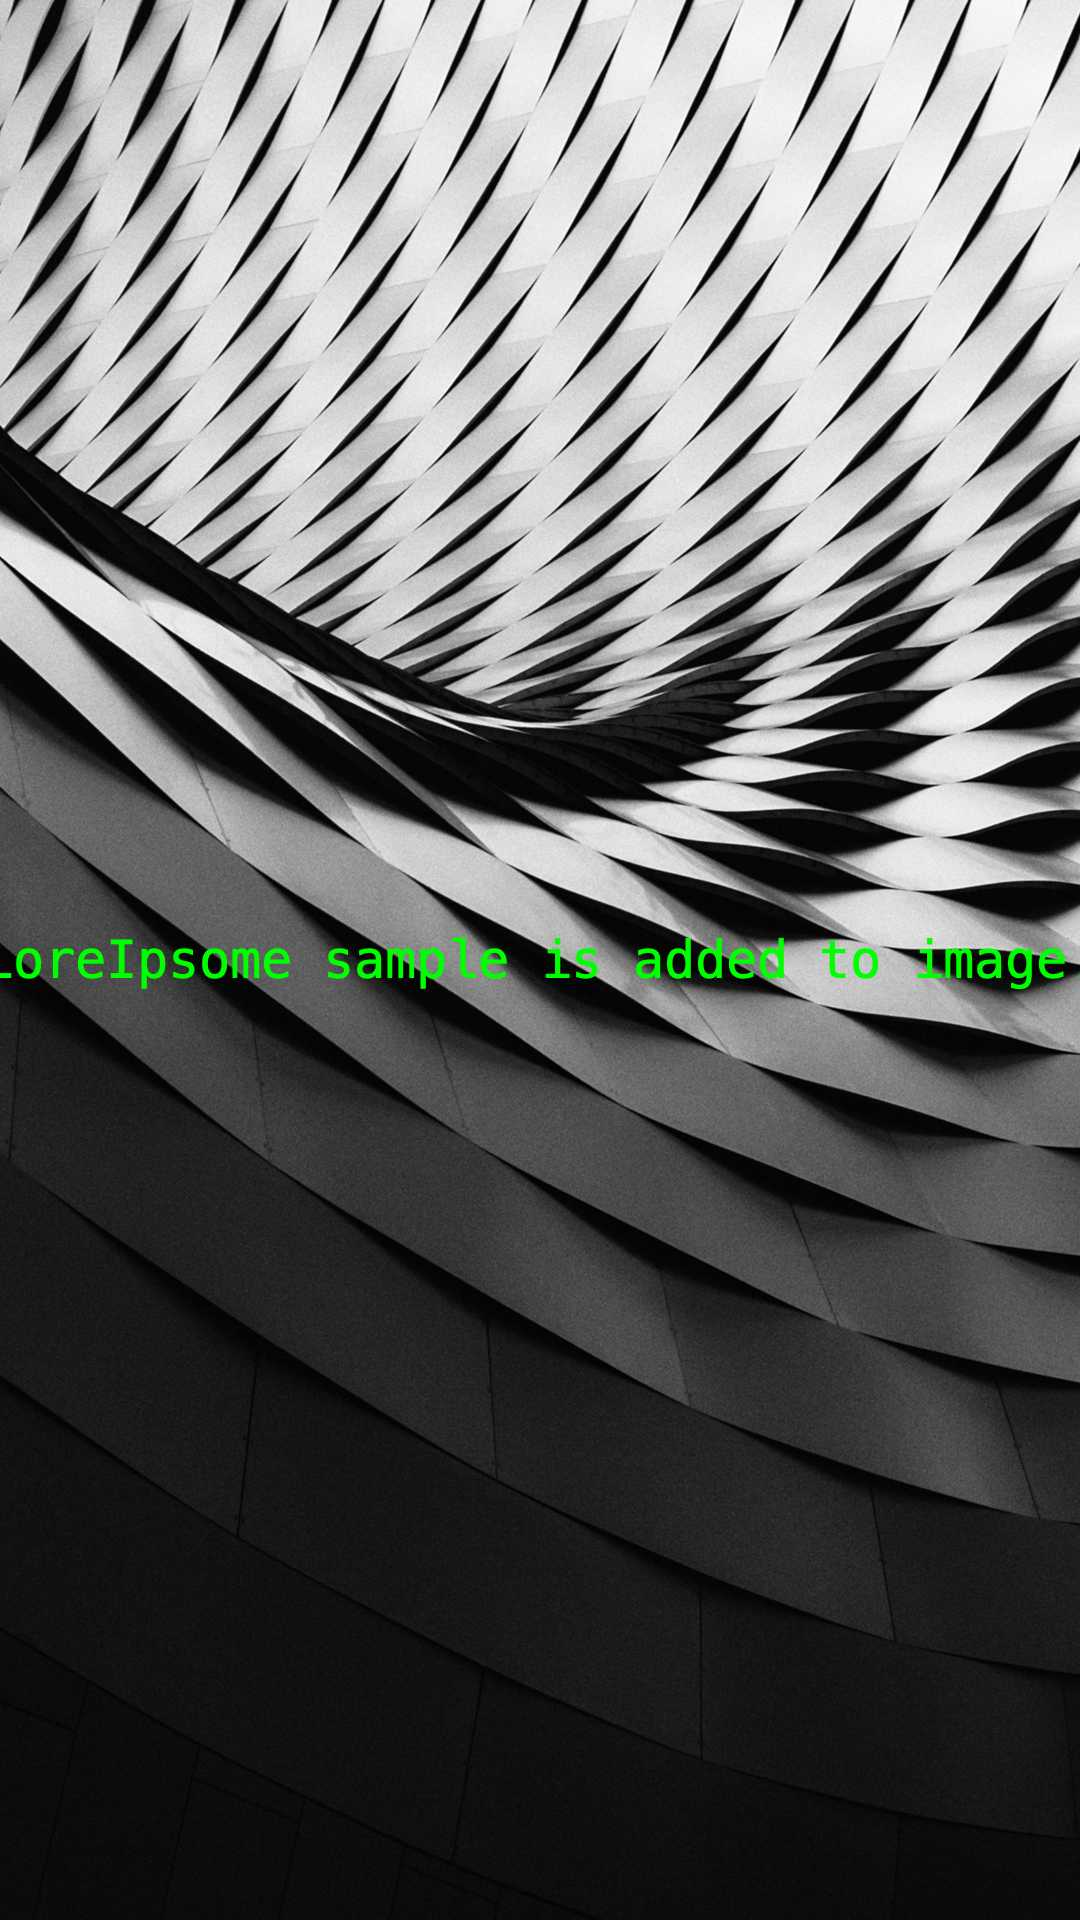
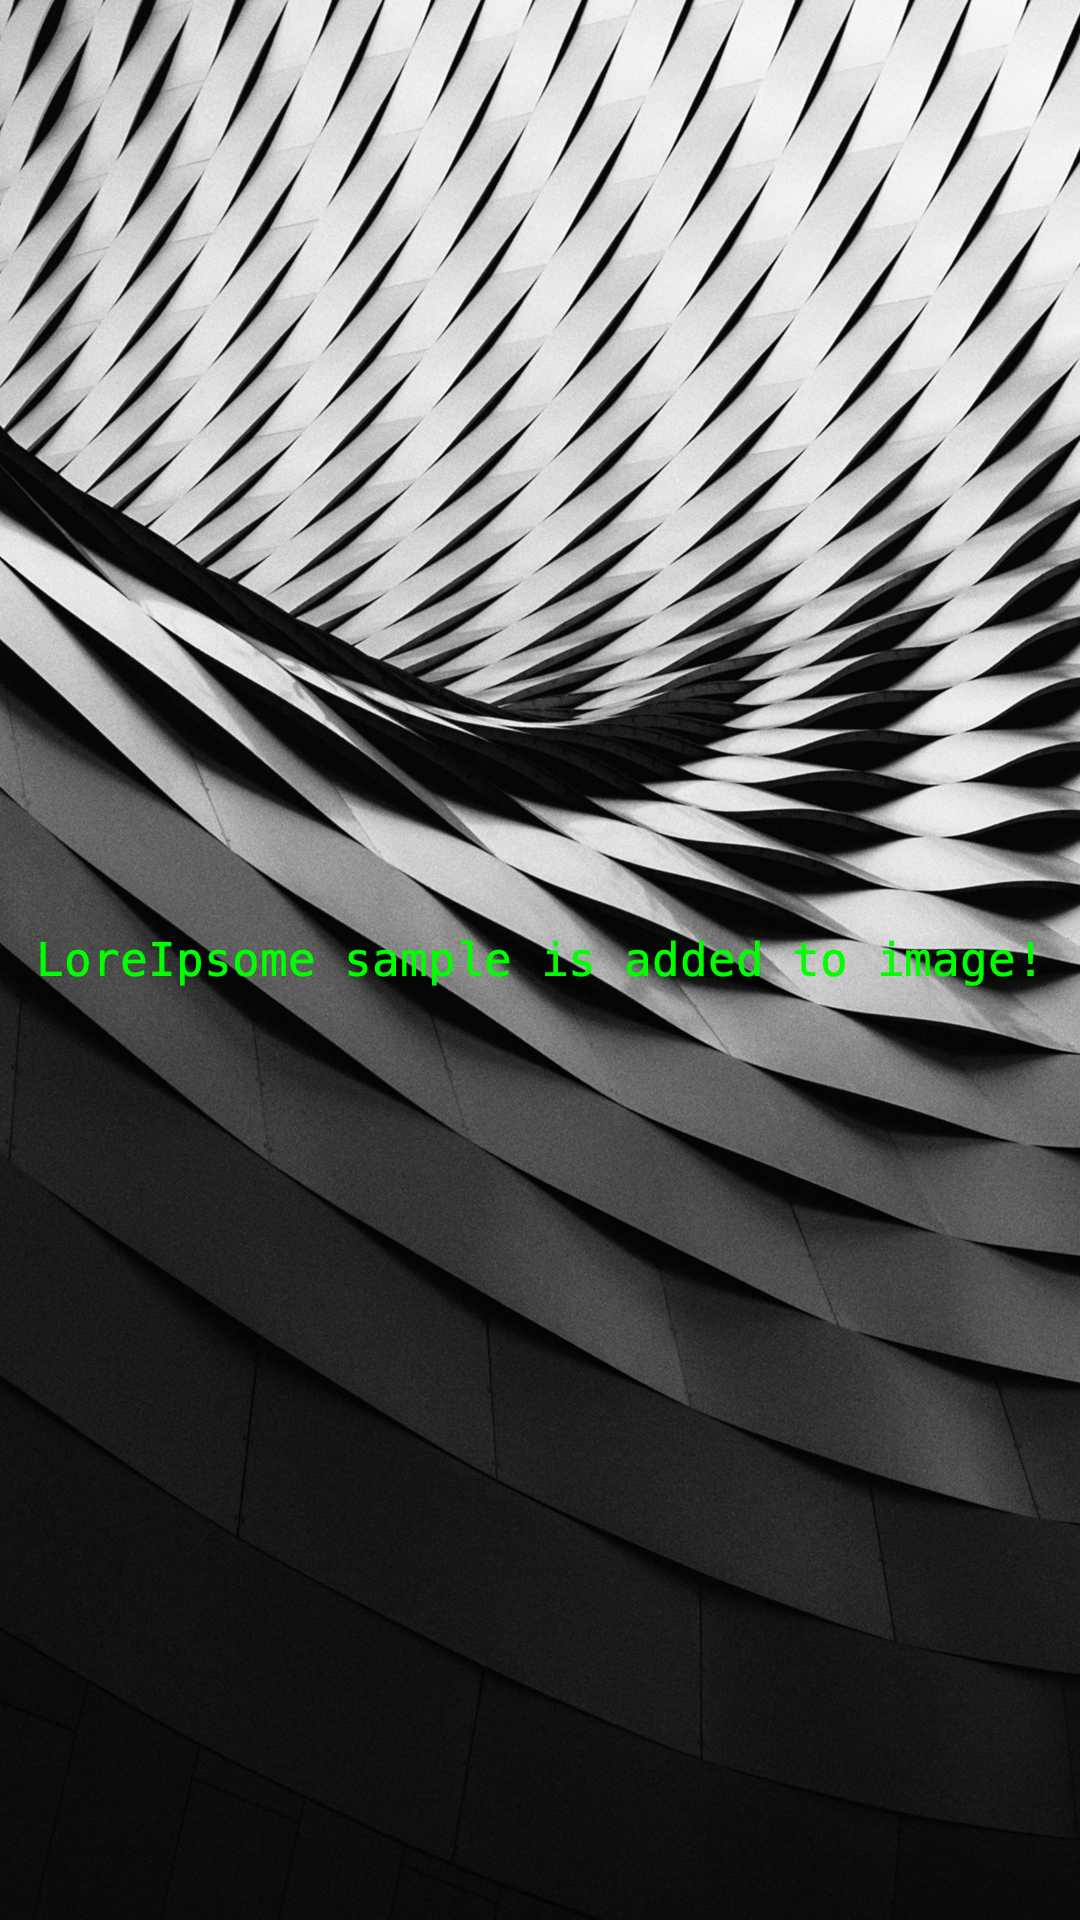
wip text bot

Changed region(s): [[0.0, 0.4688, 0.4583, 0.5312], [0.5806, 0.4688, 1.0, 0.5312], [0.4889, 0.4688, 0.55, 0.5312]]

diff --git a/src/main/kotlin/Main.kt b/src/main/kotlin/Main.kt
@@ -4,7 +4,6 @@ import kotlinx.coroutines.coroutineScope
 import okhttp3.OkHttpClient
 import okhttp3.Request
 import java.awt.*
-import java.awt.font.GlyphVector
 import java.awt.font.TextAttribute
 import java.awt.image.BufferedImage
 import java.io.File
@@ -25,6 +24,7 @@ suspend fun main() = coroutineScope {
 
     println("Cropping to reel size!")
     val imageCropped = image.cropReelSize()
+    println("${imageCropped.width} X ${imageCropped.height} | ${imageCropped.ratio()}")
     imageCropped.write("result1")
 
     println("Appending Quote")
@@ -33,21 +33,17 @@ suspend fun main() = coroutineScope {
     val (imageWidth, imageHeight) = 1080 to 1920
     val imageWithQuote = with(awtImage) {
         val graphics = graphics
-        val baseFont = Font(Font.MONOSPACED, Font.PLAIN, 24)
-
-        // dynamic fontsize
-        val newFontSize = graphics.getAdaptiveFontSizeRecursive(baseFont, quote)
-        val adaptiveFont = baseFont.deriveFont(baseFont.style, newFontSize.toFloat())
-        val adaptiveFontMetrics: FontMetrics = graphics.getFontMetrics(adaptiveFont)
+        val font = Font(Font.MONOSPACED, Font.PLAIN, 46)
+        val fontMetrics: FontMetrics = graphics.getFontMetrics(font)
 
         // text attribute
         val attributedText = AttributedString(quote)
-        attributedText.addAttribute(TextAttribute.FONT, adaptiveFont)
+        attributedText.addAttribute(TextAttribute.FONT, font)
         attributedText.addAttribute(TextAttribute.FOREGROUND, Color.GREEN)
 
         // text position - Centalized
-        val positionX: Int = (imageWidth - adaptiveFontMetrics.stringWidth(quote)) / 2
-        val positionY: Int = (imageHeight - adaptiveFontMetrics.height) / 2 + adaptiveFontMetrics.ascent
+        val positionX: Int = (imageWidth - fontMetrics.stringWidth(quote)) / 2
+        val positionY: Int = ((imageHeight - fontMetrics.height) / 2) + fontMetrics.ascent
 
         // draw text
         graphics.drawString(attributedText.iterator, positionX, positionY)
@@ -55,26 +51,6 @@ suspend fun main() = coroutineScope {
     }
     imageWithQuote.write("result2")
     Unit
-}
-
-fun Graphics.getAdaptiveFontSizeRecursive(baseFont: Font, quote: String): Double {
-    val (imageWidth, imageHeight) = 1080 to 1920
-    val graphics = this
-    val metrics: FontMetrics = graphics.getFontMetrics(baseFont)
-    val vector: GlyphVector = baseFont.createGlyphVector(metrics.fontRenderContext, quote)
-    val outline: Shape = vector.getOutline(0f, 0f)
-    val expectedWidth: Double = outline.bounds.getWidth()
-    val expectedHeight: Double = outline.bounds.getHeight()
-    val widthBasedFontSize: Double = baseFont.size2D * imageWidth / expectedWidth
-    val heightBasedFontSize: Double = baseFont.size2D * imageHeight / expectedHeight
-    val textFits = imageWidth >= expectedWidth && imageHeight >= expectedHeight
-    val newFontSize = if (widthBasedFontSize < heightBasedFontSize) widthBasedFontSize else heightBasedFontSize
-    return if (textFits) {
-        newFontSize
-    } else {
-        val newBaseFont = baseFont.deriveFont(baseFont.style, newFontSize.toFloat())
-        getAdaptiveFontSizeRecursive(newBaseFont, quote)
-    }
 }
 
 fun ImmutableImage.cropReelSize(): ImmutableImage {
